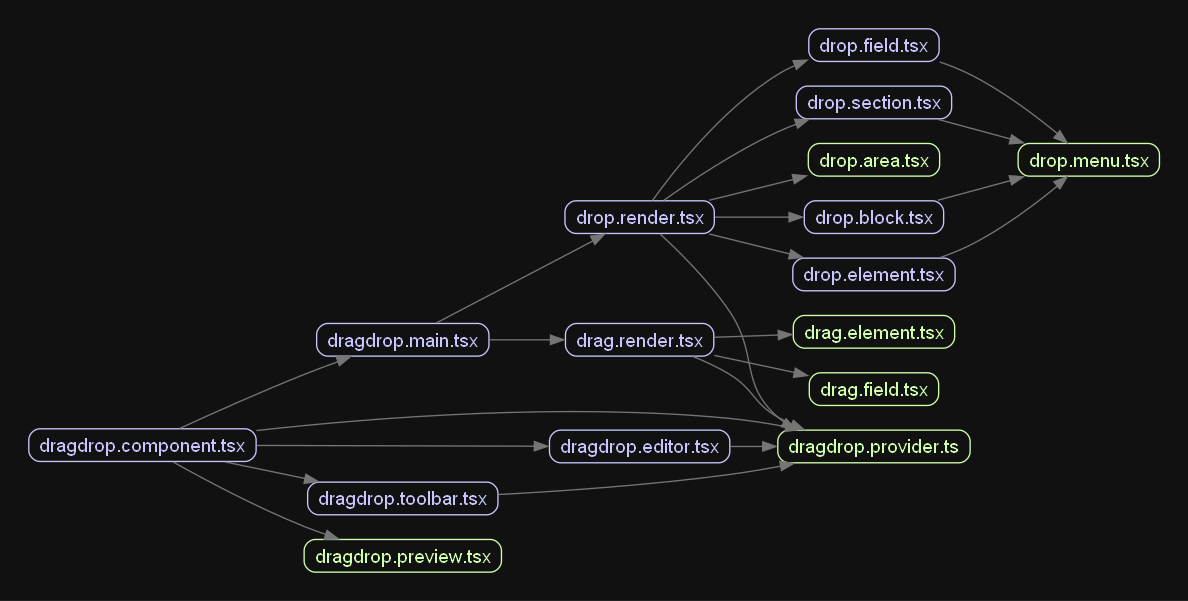
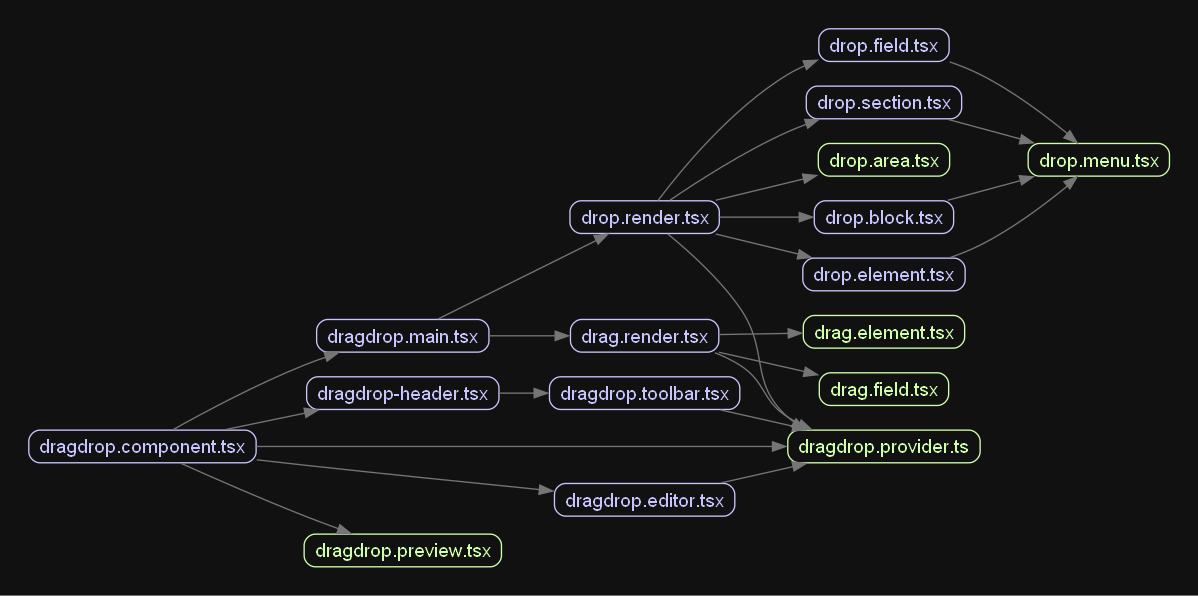
clean up editor

diff --git a/apps/react/src/components/editor/reducers/editor.reducer.ts b/apps/react/src/components/editor/reducers/editor.reducer.ts
@@ -1,8 +1,9 @@
-import { Action, ActionType, Ref, Payload, SelectTab, State, UpdateValue } from "../types";
+import { Action, ActionType, Ref, Payload, SelectTab, State, UpdateValue, SetContent } from "../types";
 
-const initialState = {
-  data: undefined,
-  tab: null,
+const initialState: State = {
+  data: {},
+  tab: {},
+  content: null,
 };
 
 const initialRef = (): Ref => {
@@ -18,6 +19,18 @@ const editorReducer = (state: State, { type, payload }: Action<Payload>) => {
         ...state, tab,
       };
     }
+    case ActionType.SET_CONTENT: {
+      const { content } = payload as SetContent;
+
+      return {
+        ...state, content,
+      };
+    }
+    case ActionType.CLEAR_CONTENT: {
+      return {
+        ...state, content: null,
+      };
+    }
     case ActionType.UPDATE_VALUE: {
       const { keyvalue } = payload as UpdateValue;
 
@@ -31,42 +44,6 @@ const editorReducer = (state: State, { type, payload }: Action<Payload>) => {
   }
 }
 
-const editorTabs = (dataType?: string) => {
-  switch (dataType) {
-    case 'field':
-      return [
-        {
-          id: 1,
-          title: "Content",
-          data: [
-            {
-              type: 'text',
-              name: 'title',
-              title: 'Title',
-              data: null
-            },
-            {
-              type: 'text',
-              name: 'description',
-              title: 'Description',
-              data: null
-            }
-          ]
-        },
-        {
-          id: 2,
-          title: "Design",
-          data: []
-        },
-        {
-          id: 3,
-          title: "Setting",
-          data: []
-        }
-      ]
-    default:
-      return [];
-  }
-}
 
-export { initialState, initialRef, editorTabs, editorReducer }
+
+export { initialState, initialRef, editorReducer }

diff --git a/apps/react/src/components/editor/editor.content.tsx b/apps/react/src/components/editor/editor.content.tsx
@@ -1,31 +1,27 @@
-import { useEditorContext } from "./editor.provider";
-import { ContextValue, IControl } from "./types";
-import EditorText from "./editor.text";
+import { ActionType, ContextValue, IControl } from "./types";
 
 interface IProps {
-  data: IControl[],
+  data?: IControl[],
   context: ContextValue
 }
 
-const render = ({ data = [], context }: IProps) => {
-  return <>
-    {
-      data.map(item => {
-        return <EditorText key={item.name} {...item} context={context} />
-      })
-    }
-  </>
-}
-
-function EditorContent() {
-  const context = useEditorContext();
-  const { data } = context.state?.tab || {};
-
+function EditorContent({ data = [], context }: IProps) {
   if (!data) return null;
 
-  return <div>
-    {render({ data, context })}
-  </div>;
+  const handleClick = (content: IControl[] | null) => {
+    context.dispatch({
+      type: ActionType.SET_CONTENT,
+      payload: { content }
+    })
+  }
+
+  return <ul>
+    {
+      data.map(item => {
+        return <li key={item.name} onClick={() => handleClick(item.data)}>{item.title}</li>
+      })
+    }
+  </ul>;
 }
 
 export default EditorContent;

diff --git a/apps/react/src/components/editor/reducers/tab.reducer.ts b/apps/react/src/components/editor/reducers/tab.reducer.ts
@@ -1,0 +1,49 @@
+export const tabReducer = (type?: string) => {
+  switch (type) {
+    case 'field':
+      return [
+        {
+          name: 'content',
+          title: "Content",
+          data: [
+            {
+              name: 'title',
+              title: 'Title',
+              data: [
+                {
+                  type: 'text',
+                  name: 'title',
+                  title: 'Title',
+                  data: null
+                }
+              ]
+            },
+            {
+              name: 'description',
+              title: 'Description',
+              data: [
+                {
+                  type: 'text',
+                  name: 'description',
+                  title: 'Description',
+                  data: null
+                }
+              ]
+            }
+          ]
+        },
+        {
+          name: 'design',
+          title: "Design",
+          data: []
+        },
+        {
+          name: 'setting',
+          title: "Setting",
+          data: []
+        }
+      ]
+    default:
+      return [];
+  }
+}

diff --git a/apps/react/src/components/editor/editor.slider.tsx b/apps/react/src/components/editor/editor.slider.tsx
@@ -1,0 +1,41 @@
+import { forwardRef } from "react";
+import EditorHeader from "./editor.header";
+import EditorTab from "./editor.tab";
+import EditorRender from "./editor.render";
+import { useEditorContext } from "./editor.provider";
+import { ActionType } from "./types";
+
+interface IProps { }
+
+export const EditorSlider = forwardRef<HTMLDivElement, IProps>((_, ref) => {
+  const { state, dispatch } = useEditorContext();
+
+  const handleClick = () => {
+    dispatch({
+      type: ActionType.CLEAR_CONTENT
+    });
+  }
+
+  const contentDisplayStyle = {
+    display: state.content ? 'none' : 'block'
+  };
+
+  const backDisplayStyle = {
+    display: state.content ? 'block' : 'none'
+  };
+
+
+  return <div className="animation-slide">
+    <div ref={ref} style={{ opacity: 0 }}>drag</div>
+    <div style={contentDisplayStyle}>
+      <EditorHeader />
+      <EditorTab />
+      <EditorRender />
+    </div>
+    <div style={backDisplayStyle}>
+      <button type="button" onClick={handleClick}>Back</button>
+      content
+    </div>
+  </div>
+});
+

diff --git a/apps/react/src/components/editor/hooks/use-editor-state.hook.ts b/apps/react/src/components/editor/hooks/use-editor-state.hook.ts
@@ -1,6 +1,6 @@
 import { useReducer, useRef } from 'react';
 import { Field, KeyValue } from "../types";
-import { initialState, initialRef, editorTabs, editorReducer } from '../reducers';
+import { initialState, initialRef, tabReducer, editorReducer } from '../reducers';
 
 export interface IEditorProps {
   data?: Field;
@@ -8,9 +8,13 @@ export interface IEditorProps {
 }
 
 export const useEditorState = ({ data, onChange }: IEditorProps) => {
-  const tabs = editorTabs(data?.dataType);
+  const tabs = tabReducer(data?.dataType);
   const ref = useRef({ ...initialRef() });
-  const [state, dispatch] = useReducer(editorReducer, { ...initialState, data: structuredClone(data), tab: tabs[0] });
+  const [state, dispatch] = useReducer(editorReducer, {
+    ...initialState,
+    data: structuredClone(data || {}),
+    tab: tabs[0]
+  });
 
   return {
     props: { data, onChange },

diff --git a/apps/react/src/components/dragdrop/dragdrop.component.tsx b/apps/react/src/components/dragdrop/dragdrop.component.tsx
@@ -4,10 +4,10 @@ import { HTML5Backend } from "react-dnd-html5-backend";
 
 import { useDragDropState, IDragDropProps } from "./hooks";
 import { DragDropProvider } from "./dragdrop.provider";
-import DragDropToolbar from "./dragdrop.toolbar";
-import DragDropPreview from "./dragdrop.preview";
+import DragDropHeader from "./dragdrop-header";
 import DragDropMain from "./dragdrop.main";
 import DragDropEditor from "./dragdrop.editor";
+import DragDropPreview from "./dragdrop.preview";
 
 interface IProps extends IDragDropProps { }
 
@@ -19,7 +19,7 @@ export function DragDrop(props: IProps) {
     <div className="dragdrop">
       <DndProvider backend={backend}>
         <DragDropProvider value={dragDropState}>
-          <DragDropToolbar />
+          <DragDropHeader />
           <DragDropMain />
           <DragDropPreview />
           <DragDropEditor />

diff --git a/apps/react/src/components/editor/editor.component.tsx b/apps/react/src/components/editor/editor.component.tsx
@@ -2,10 +2,7 @@ import { forwardRef } from "react";
 
 import { IEditorProps, useEditorState } from "./hooks";
 import { EditorProvider } from "./editor.provider";
-import EditorHeader from "./editor.header";
-import EditorTab from "./editor.tab";
-import EditorContent from "./editor.content";
-
+import { EditorSlider } from "./editor.slider";
 interface IProps extends IEditorProps { }
 
 export const Editor = forwardRef<HTMLDivElement, IProps>((props, ref) => {
@@ -14,9 +11,7 @@ export const Editor = forwardRef<HTMLDivElement, IProps>((props, ref) => {
 
   return <div className="editor">
     <EditorProvider value={{ ...editorState }}>
-      <EditorHeader ref={ref} />
-      <EditorTab />
-      <EditorContent />
+      <EditorSlider ref={ref} />
     </EditorProvider>
   </div>
 });

diff --git a/apps/react/src/components/editor/editor.tab.tsx b/apps/react/src/components/editor/editor.tab.tsx
@@ -4,7 +4,6 @@ import { useEditorContext } from "./editor.provider";
 function EditorTab() {
   const { tabs, state, dispatch } = useEditorContext();
 
-
   const handleClick = (event: React.MouseEvent<HTMLButtonElement>, tab: Tab) => {
     event.stopPropagation();
 
@@ -16,10 +15,10 @@ function EditorTab() {
     console.log(tab, state);
   }
 
-  return <div>
+  return <div className='editor-tabs'>
     {
       tabs.map(tab => {
-        return <button key={tab.id} type="button" onClick={(e) => handleClick(e, tab)}>{tab.title}</button>
+        return <button key={tab.name} type="button" onClick={(e) => handleClick(e, tab)}>{tab.title}</button>
       })
     }
   </div>

diff --git a/apps/react/src/components/editor/types/editor.type.ts b/apps/react/src/components/editor/types/editor.type.ts
@@ -5,16 +5,15 @@ import { IEditorProps } from "../hooks";
 
 export { FieldDataType as DataType };
 
-export interface Field extends FieldType {
-  [key: string]: any;
-}
+export interface Field extends FieldType { }
 
 export interface KeyValue {
   [key: string]: string;
 }
 
 export interface Tab {
-  id: number | string;
+  id?: string | number;
+  name: string;
   title: string;
   data: IControl[];
 }
@@ -30,8 +29,9 @@ export interface IControl {
 
 
 export interface State {
-  data?: Field;
-  tab: Tab | null;
+  data?: Partial<Field>;
+  tab: Partial<Tab>;
+  content: IControl[] | null;
 }
 
 export interface Ref {

diff --git a/apps/react/src/components/editor/editor.render.tsx b/apps/react/src/components/editor/editor.render.tsx
@@ -1,0 +1,17 @@
+import EditorContent from "./editor.content";
+import { useEditorContext } from "./editor.provider";
+
+function EditorRender() {
+  const context = useEditorContext();
+  const tab = context.state?.tab || {};
+
+  switch (tab.name) {
+    case 'content':
+      return <EditorContent data={tab.data} context={context} />
+    default:
+      return null;
+  }
+
+}
+
+export default EditorRender;

diff --git a/apps/react/src/components/editor/types/reducer.type.ts b/apps/react/src/components/editor/types/reducer.type.ts
@@ -1,11 +1,15 @@
-import { KeyValue, Tab } from "./editor.type";
+import { IControl, KeyValue, Tab } from "./editor.type";
 
 export interface SelectTab {
   tab: Tab;
+}
+
+export interface SetContent {
+  content: IControl[] | null;
 }
 
 export interface UpdateValue {
   keyvalue: KeyValue
 }
 
-export type Payload = SelectTab | UpdateValue;
+export type Payload = SelectTab | SetContent | UpdateValue;

diff --git a/apps/react/src/components/dragdrop/dragdrop.main.tsx b/apps/react/src/components/dragdrop/dragdrop.main.tsx
@@ -2,10 +2,10 @@ import DragRender from "./drag.render";
 import DropRender from "./drop.render";
 
 function DragDropMain() {
-  return <div className="dragdrop-main">
+  return <main className="dragdrop-main">
     <DropRender />
     <DragRender />
-  </div>
+  </main>
 }
 
 export default DragDropMain;
